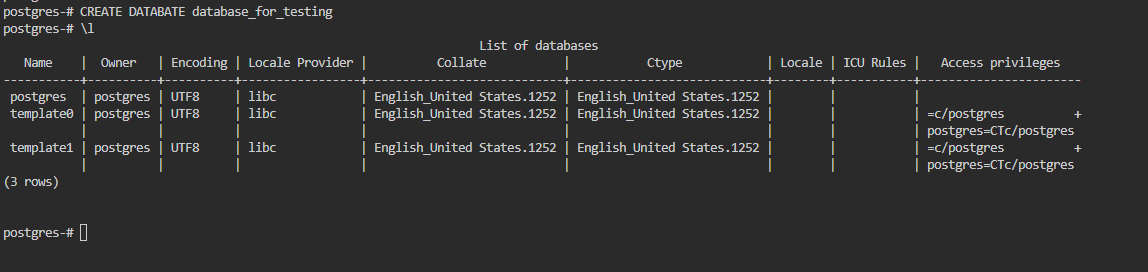
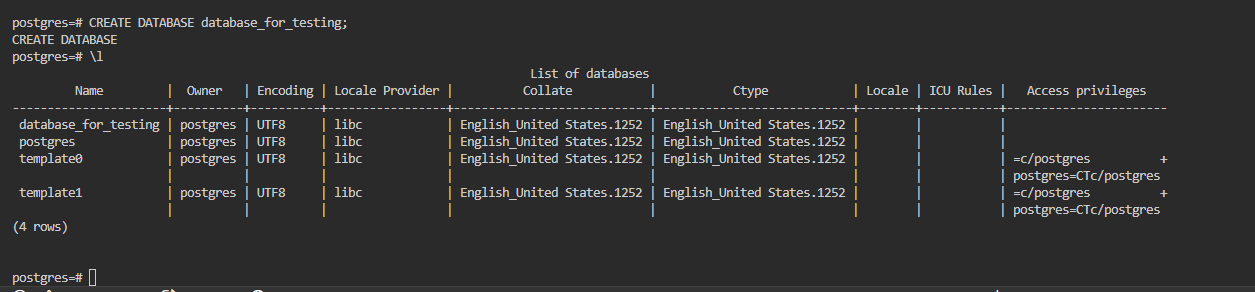
atualizado o a imagem sobre a consulta com o comando \l

diff --git a/Banco de dados SQL/Modelagem_BancoDeDados/README.md b/Banco de dados SQL/Modelagem_BancoDeDados/README.md
@@ -247,7 +247,7 @@
 
             ```SQL
 
-                CREATE DATABASE nome-do-banco
+                CREATE DATABASE nome-do-banco;
 
             ```
 
